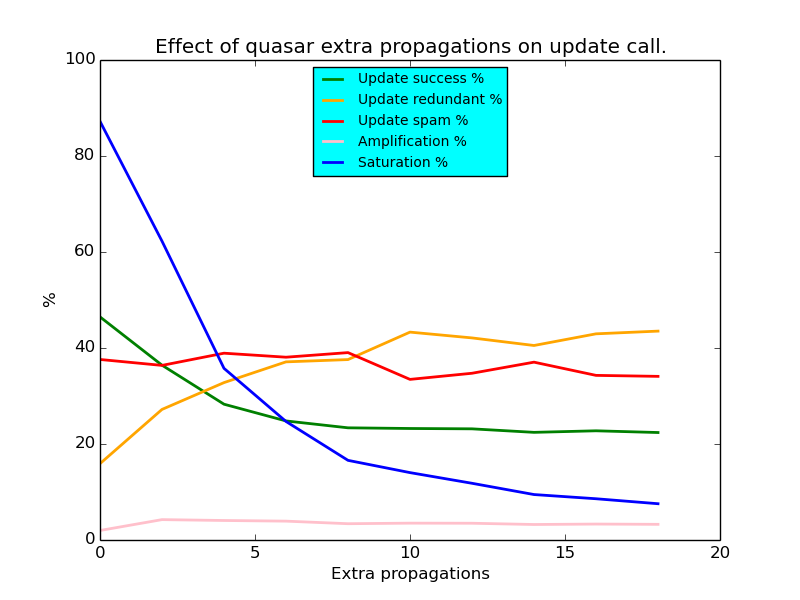
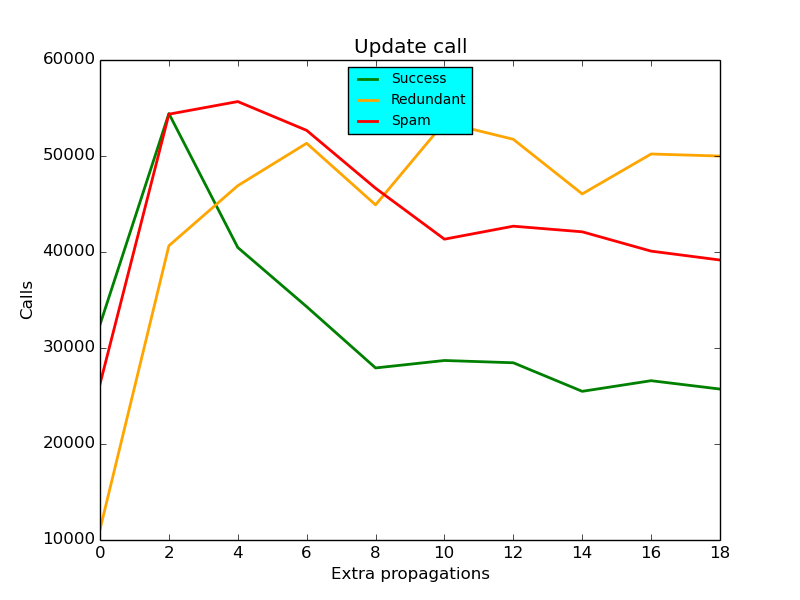
updated extra prop test

diff --git a/benchmark/filterupdates_quasar_extraprop_plot.py b/benchmark/filterupdates_quasar_extraprop_plot.py
@@ -49,59 +49,36 @@ for sample in samples:
     num_refreshes = time_total / sample["quasar"]["constants"]["refresh_time"]
     swarm_size = sample["args"]["swarm_size"]
     amp = update_called / (test_count + (num_refreshes * swarm_size))
-    amp_percent = amp * 100.0 / max_amp
-    y_amp.append(amp_percent)
+    y_amp.append(amp)
 
-    # get saturation percent
-    extra_propagations = sample["quasar"]["constants"]["extra_propagations"]
-    max_node_updates = num_refreshes * (extra_propagations + 1)
-    max_called = swarm_size * max_node_updates * ksize  # ~ 880000
-    saturation_percent = update_called * 100 / max_called
-    y_saturation.append(saturation_percent)
-
-    # get success precent
-    success_count = sample["quasar"]["update_successful"]
-    success_percent = success_count * 100.0 / update_called
-    y_success.append(success_percent)
-
-    # get redundant precent
-    redundant_count = sample["quasar"]["update_redundant"]
-    redundant_percent = redundant_count * 100.0 / update_called
-    y_redundant.append(redundant_percent)
-
-    # get spam precent
-    spam_count = sample["quasar"]["update_spam"]
-    spam_percent = spam_count * 100.0 / update_called
-    y_spam.append(spam_percent)
+    # get update values
+    y_success.append(sample["quasar"]["update_successful"])
+    y_redundant.append(sample["quasar"]["update_redundant"])
+    y_spam.append(sample["quasar"]["update_spam"])
 
 
-# setup plot
+# setup
 fig = plt.figure()
 plot = fig.add_subplot(111)
-plot.set_title('Effect of quasar extra propagations on update call.')
+plot.set_title('Update call')
 plot.set_xlabel('Extra propagations')
-plot.set_ylabel('%')
+plot.set_ylabel('Calls')
 # plot.set_xscale('log')
 # plot.set_yscale('log')
-plot.axis([0, 20, 0, 100])
-
+# plot.axis([0, 20, 0, 100])
 
 # add plots
-lines = plot.plot(x_success, y_success, 'k', label='Update success %')
+lines = plot.plot(x_success, y_success, 'k', label='Success')
 plt.setp(lines, color='green', linewidth=2.0)
-lines = plot.plot(x_redundant, y_redundant, 'k', label='Update redundant %')
+lines = plot.plot(x_redundant, y_redundant, 'k', label='Redundant')
 plt.setp(lines, color='orange', linewidth=2.0)
-lines = plot.plot(x_spam, y_spam, 'k', label='Update spam %')
+lines = plot.plot(x_spam, y_spam, 'k', label='Spam')
 plt.setp(lines, color='red', linewidth=2.0)
-lines = plot.plot(x_amp, y_amp, 'k', label='Amplification %')
-plt.setp(lines, color='pink', linewidth=2.0)
-lines = plot.plot(x_saturation, y_saturation, 'k', label='Saturation %')
-plt.setp(lines, color='blue', linewidth=2.0)
-
 
 # create legend
 plot = plot.legend(loc='upper center', shadow=False, fontsize='small')
 plot.get_frame().set_facecolor('#00FFFF')
+
 
 # render
 plt.savefig("benchmark/filterupdates_quasar_extraprop_plot.png")

diff --git a/benchmark.md b/benchmark.md
@@ -3,6 +3,15 @@
 First run quick limited tests to find out what to test extensivly.
 
 
+Amplification calculation:
+
+    # amplificaton (updates calls resulting from a subscription as percent of theoretical maximum) 
+    kademlia ksize = 20
+    max amplification = kademlia ksize ^ quasar depth = 400
+    num refreshes = 600 / refresh time = 10
+    amplification = update called / (test count + num refreshes * swarm size)
+    amplification % = amplification * 100.0 / max amplification
+
 
 ## Test 001: Filter update frequency change (quick test)
 
@@ -37,30 +46,6 @@ Subscriptions are to random topics from random nodes.
 
 
 ### Results:
-
-Result normalization:
-
-    # amplificaton (updates calls resulting from a subscription as percent of theoretical maximum) 
-    kademlia ksize = 20
-    max amplification = kademlia ksize ^ quasar depth = 400
-    num refreshes = 600 / refresh time = 10
-    amplification = update called / (test count + num refreshes * swarm size)
-    amplification % = amplification * 100.0 / max amplification
-
-    # saturation (percent of updated calls of theoretical maximum) 
-    max node updates = num refreshes * (extra propagations + 1)
-    max update called = swarm size * max node updates * kademlia ksize = 880000
-    saturation % = called * 100.0 / max update called
-
-    # update calls that led to a change in the nodes attenuated bloom filters
-    update success % = success * 100.0 / update called
-
-    # update calls that did not lead to a change in the nodes attenuated bloom filters
-    update redundant % = redundant * 100.0 / update called
-
-    # update calls not from a neighbor
-    update spam % = spam * 100.0 / update called
-
 
 ![Plot](benchmark/filterupdates_sub_freq_plot.png)
 
@@ -127,30 +112,6 @@ Subscriptions are to random topics from random nodes.
 
 ### Results:
 
-Result normalization:
-
-    # amplificaton (updates calls resulting from a subscription as percent of theoretical maximum) 
-    kademlia ksize = 20
-    max amplification = kademlia ksize ^ quasar depth = 400
-    num refreshes = 600 / refresh time = 10
-    amplification = update called / (test count + num refreshes * swarm size)
-    amplification % = amplification * 100.0 / max amplification
-
-    # saturation (percent of updated calls of theoretical maximum) 
-    max node updates = num refreshes * (extra propagations + 1)
-    max update called = swarm size * max node updates * kademlia ksize = 880000
-    saturation % = called * 100.0 / max update called
-
-    # update calls that led to a change in the nodes attenuated bloom filters
-    update success % = success * 100.0 / update called
-
-    # update calls that did not lead to a change in the nodes attenuated bloom filters
-    update redundant % = redundant * 100.0 / update called
-
-    # update calls not from a neighbor
-    update spam % = spam * 100.0 / update called
-
-
 ![Plot](benchmark/filterupdates_quasar_size_plot.png)
 
 
@@ -195,25 +156,6 @@ Subscriptions are to random topics from random nodes.
 
 ### Results:
 
-Result normalization:
-
-    # saturation (percent of updated calls of theoretical maximum) 
-    kademlia ksize = 20
-    num refreshes = 600 / refresh time = 10
-    max node updates = num refreshes * (extra propagations + 1)
-    max update called = swarm size * max node updates * kademlia ksize = 880000
-    saturation % = called * 100.0 / max update called
-
-    # update calls that led to a change in the nodes attenuated bloom filters
-    update success % = success * 100.0 / update called
-
-    # update calls that did not lead to a change in the nodes attenuated bloom filters
-    update redundant % = redundant * 100.0 / update called
-
-    # update calls not from a neighbor
-    update spam % = spam * 100.0 / update called
-
-
 ![Plot](benchmark/filterupdates_quasar_refresh_plot.png)
 
 
@@ -256,30 +198,6 @@ Subscriptions are to random topics from random nodes.
 
 
 ### Results:
-
-Result normalization:
-
-    # amplificaton (updates calls resulting from a subscription as percent of theoretical maximum) 
-    kademlia ksize = 20
-    max amplification = kademlia ksize ^ quasar depth = 400
-    num refreshes = 600 / refresh time = 10
-    amplification = update called / (test count + num refreshes * swarm size)
-    amplification % = amplification * 100.0 / max amplification
-
-    # saturation (percent of updated calls of theoretical maximum) 
-    max node updates = num refreshes * (extra propagations + 1)
-    max update called = swarm size * max node updates * kademlia ksize = 880000
-    saturation % = called * 100.0 / max update called
-
-    # update calls that led to a change in the nodes attenuated bloom filters
-    update success % = success * 100.0 / update called
-
-    # update calls that did not lead to a change in the nodes attenuated bloom filters
-    update redundant % = redundant * 100.0 / update called
-
-    # update calls not from a neighbor
-    update spam % = spam * 100.0 / update called
-
 
 ![Plot](benchmark/filterupdates_quasar_extraprop_plot.png)
 
